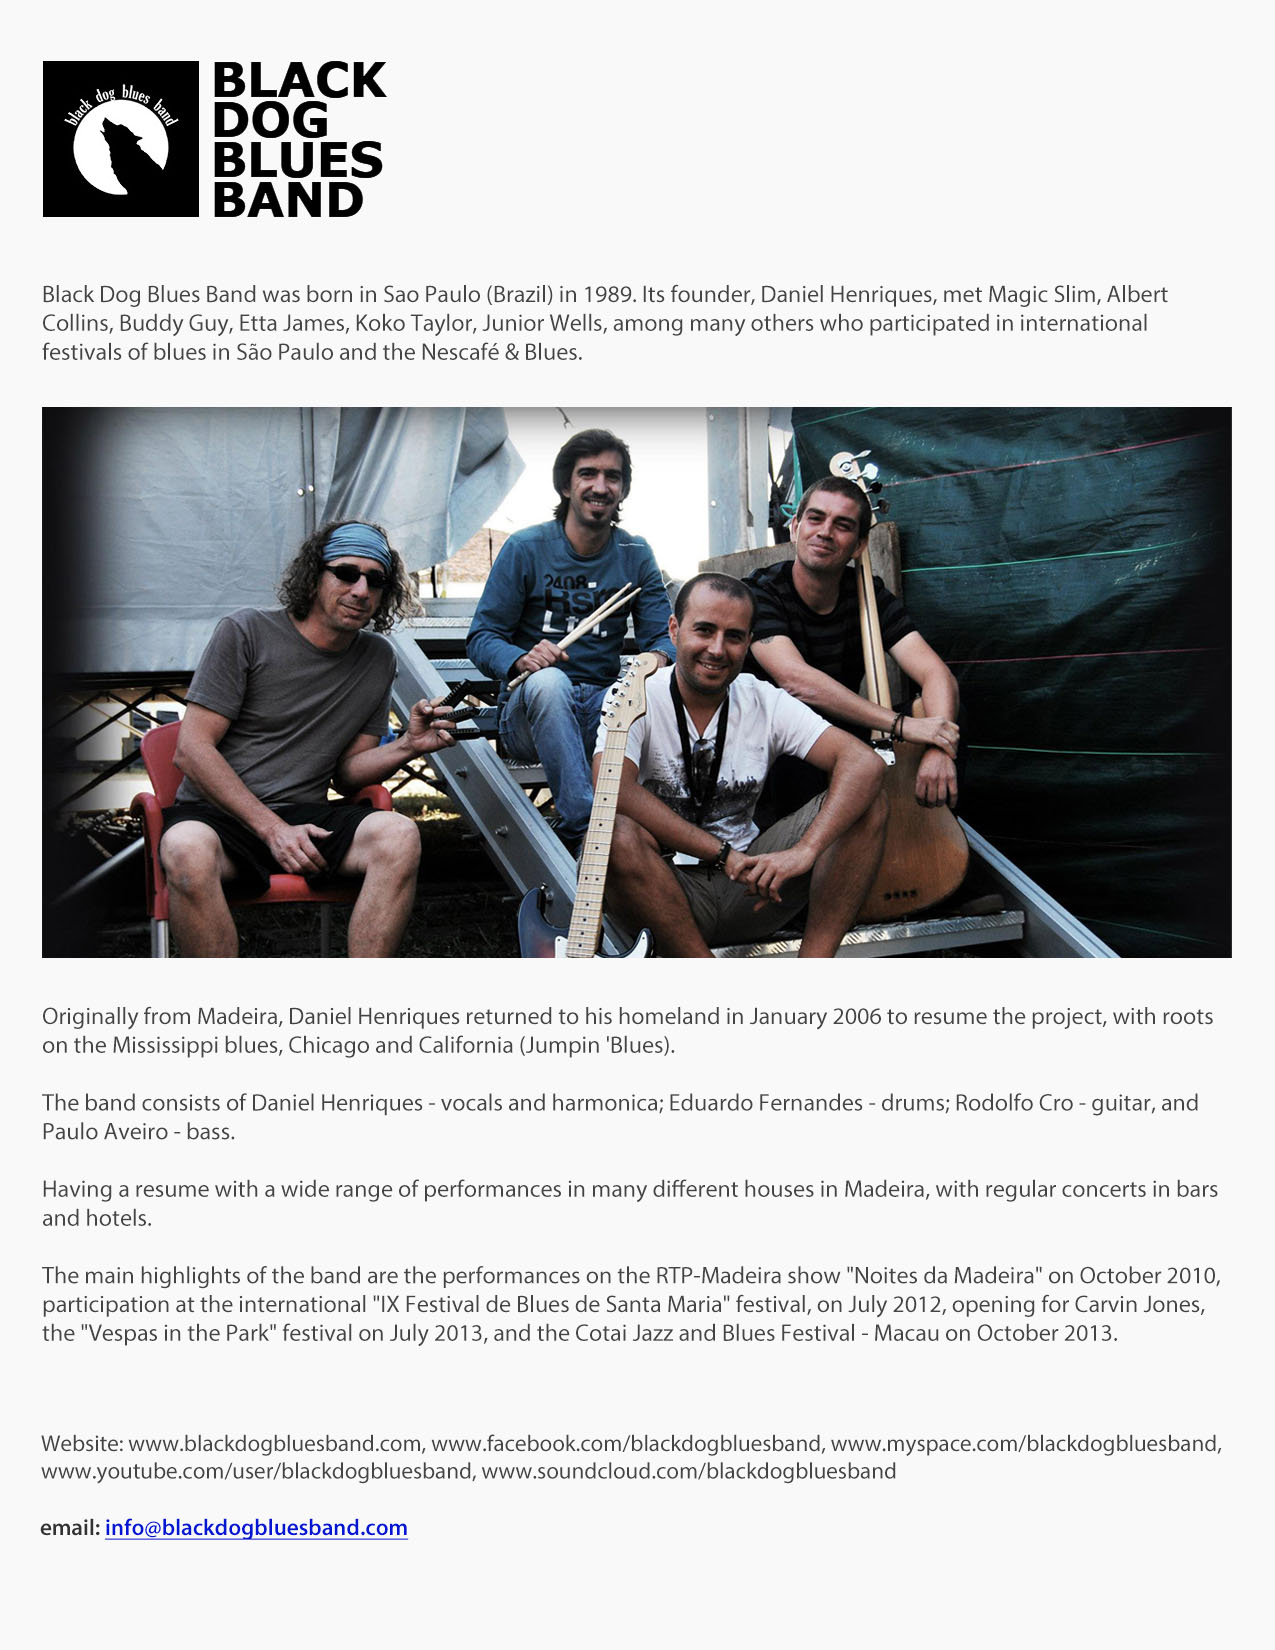
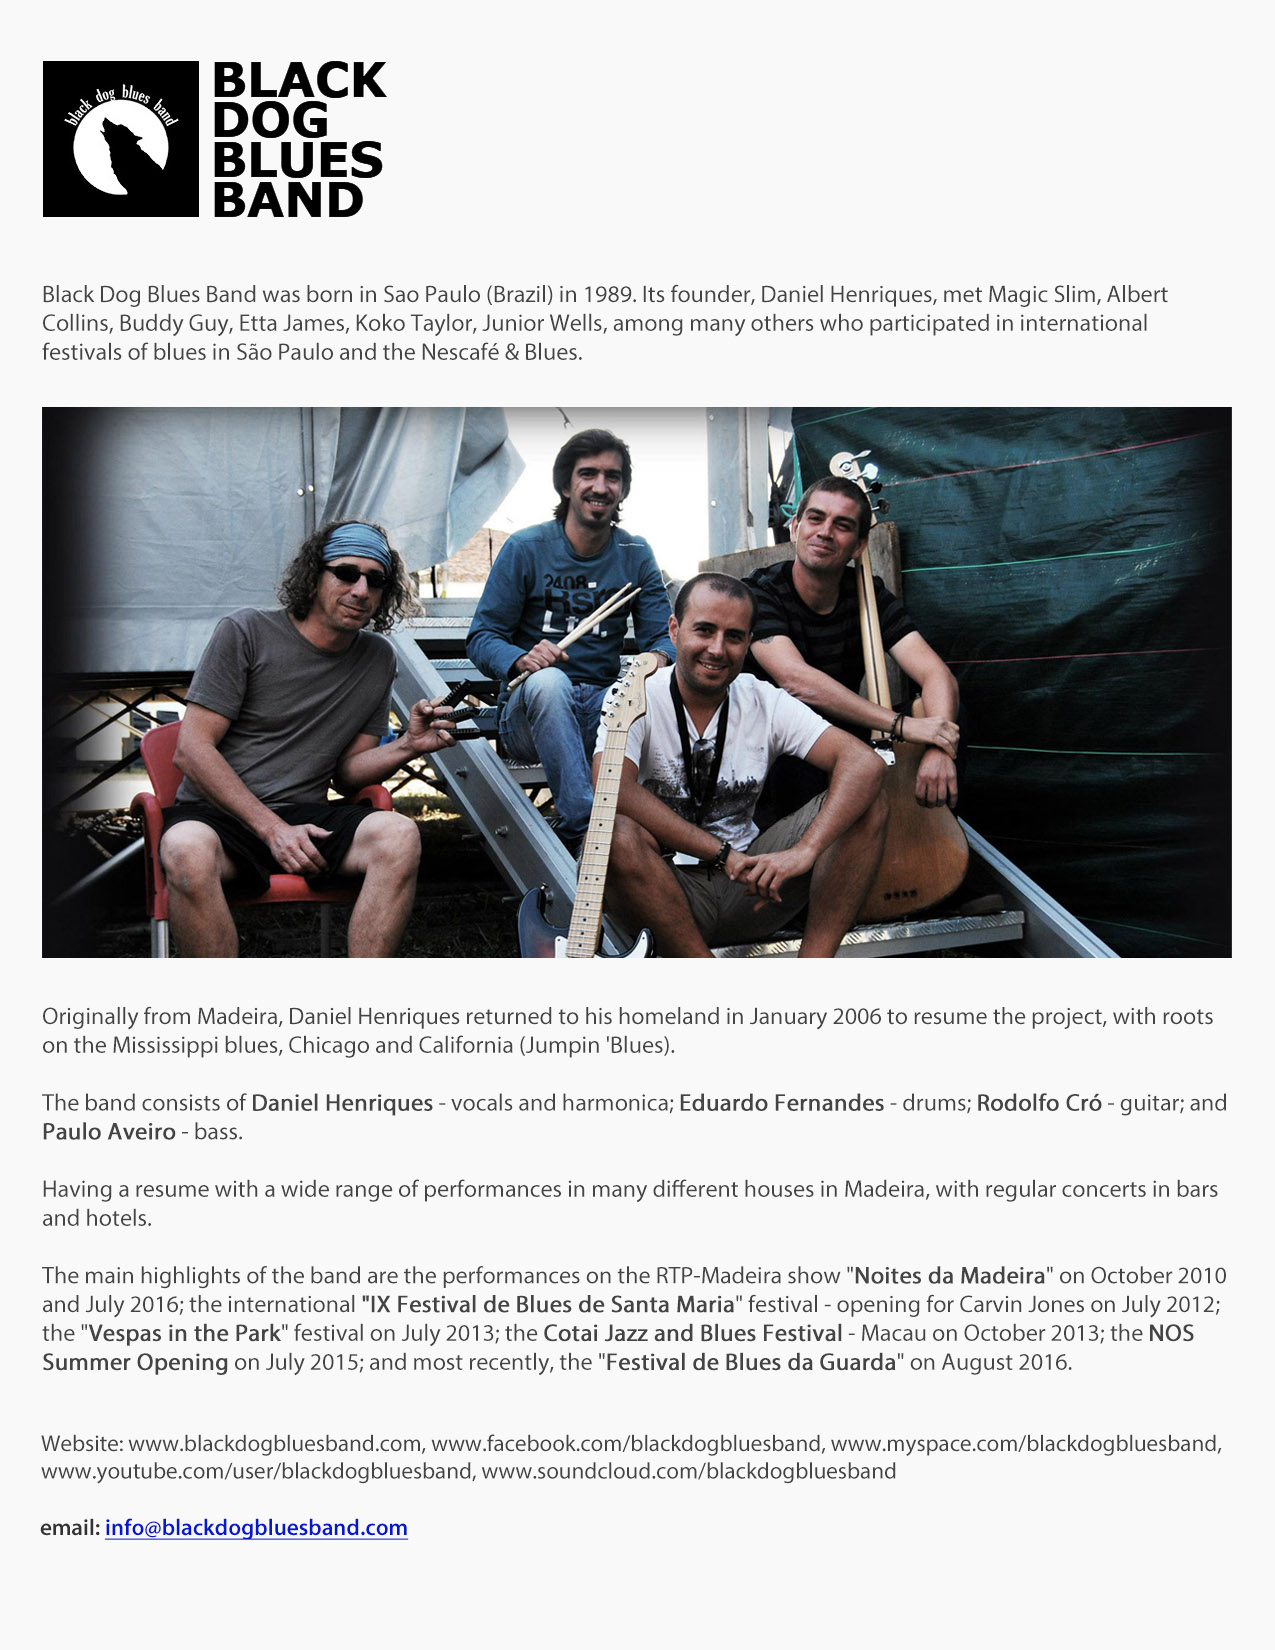
Updated one sheet and bio

Changed region(s): [[0.0306, 0.7727, 0.9482, 0.8345], [0.2141, 0.6491, 0.9482, 0.68], [0.0306, 0.68, 0.1835, 0.7109]]

diff --git a/partials/bio.html b/partials/bio.html
@@ -8,7 +8,7 @@
   <p>Originally from Madeira, Daniel Henriques returned to his homeland in January 2006 to resume the project, with roots on the Mississippi blues, Chicago and California (Jumpin 'Blues).</p>
   <p>The band consists of Daniel Henriques - vocals and harmonica; Eduardo Fernandes - drums; Rodolfo Cro - guitar, and Paulo Aveiro - bass.</p>
   <p>Having a resume with a wide range of performances in many different houses in Madeira, with regular concerts in bars and hotels.</p>
-  <p>The main highlights of the band are the performances on the  RTP-Madeira show "Noites da Madeira" on October 2010, participation at the international "IX Festival de Blues de Santa Maria" festival, on July 2012, opening for Carvin Jones, the "Vespas in the Park" festival on July 2013, and the Cotai Jazz and Blues Festival - Macau on October 2013.</p>
+  <p>The main highlights of the band are the performances on the RTP-Madeira show "Noites da Madeira" on October 2010 and July 2016; the international "IX Festival de Blues de Santa Maria" festival - opening for Carvin Jones on July 2012; the "Vespas in the Park" festival on July 2013; the Cotai Jazz and Blues Festival - Macau on October 2013; the NOS Summer Opening on July 2015; and most recently, the "Festival de Blues da Guarda" on August 2016.</p>
 
   <h1>1-Sheet</h1>
   <a class="one-sheet" href="img/1sheet_en.jpg"><img width="100" src="img/1sheet.jpg" class=""><br/>English</a>

diff --git a/index.html b/index.html
@@ -85,8 +85,7 @@
           <a href="http://www.soundcloud.com/blackdogbluesband" target="_blank"><img src="img/social/soundcloud.png"></a>
         </div>
         <div class="copy">
-          <span>&copy; 2012-2015 <b>Black Dog Blues Band</b>.</span>
-          <span>Powered by <a target="_blank" href="http://www.projecto24.com/">Projecto24</a>.</span>
+          <span>&copy; 2016 <strong>Black Dog Blues Band</strong></span>
         </div>
         <div class="clear"></div>
       </div>
